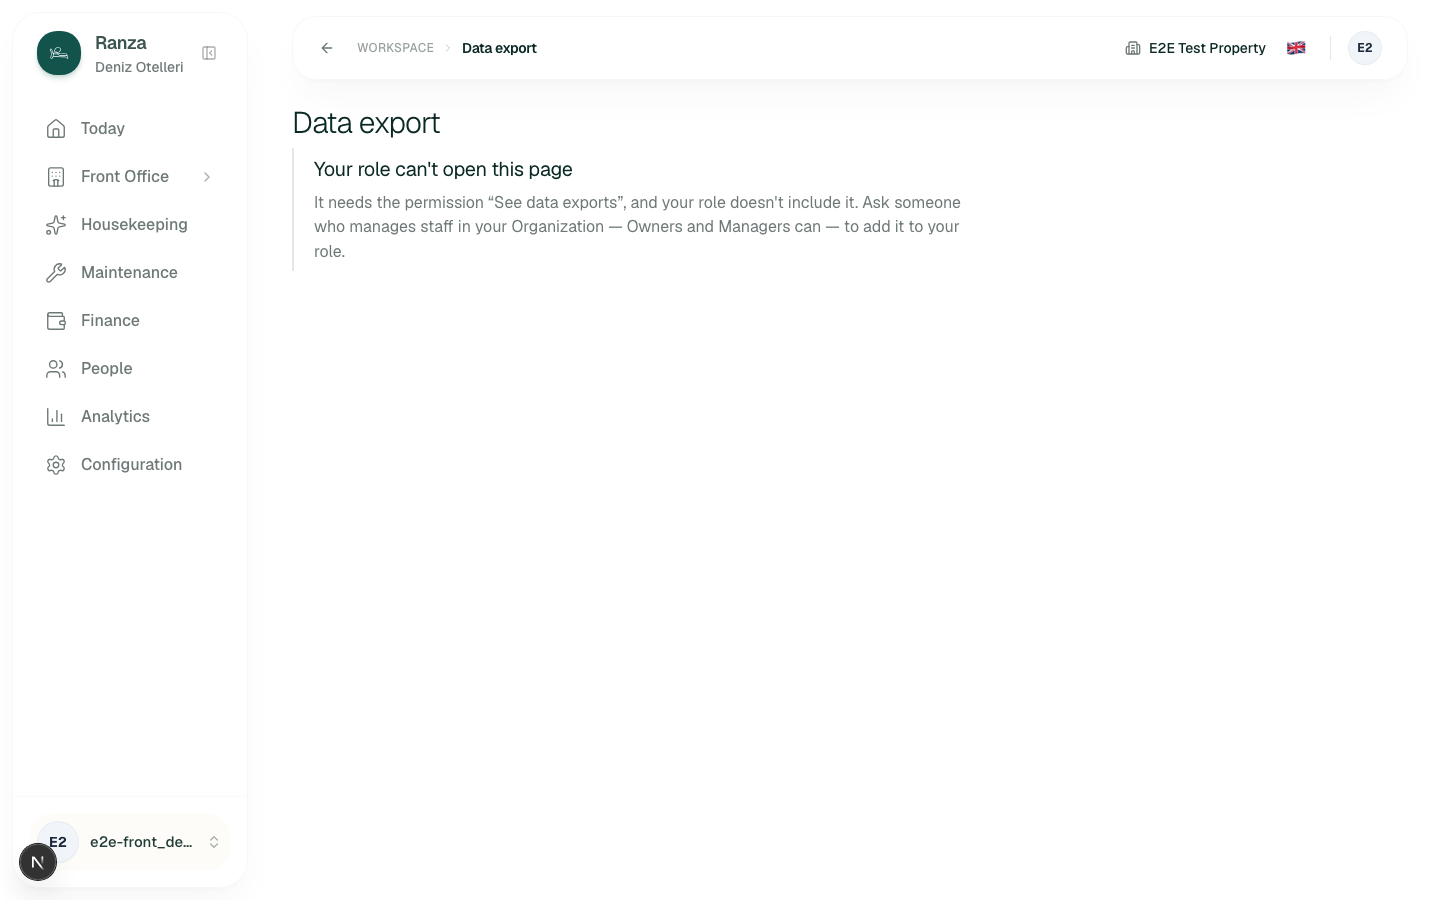
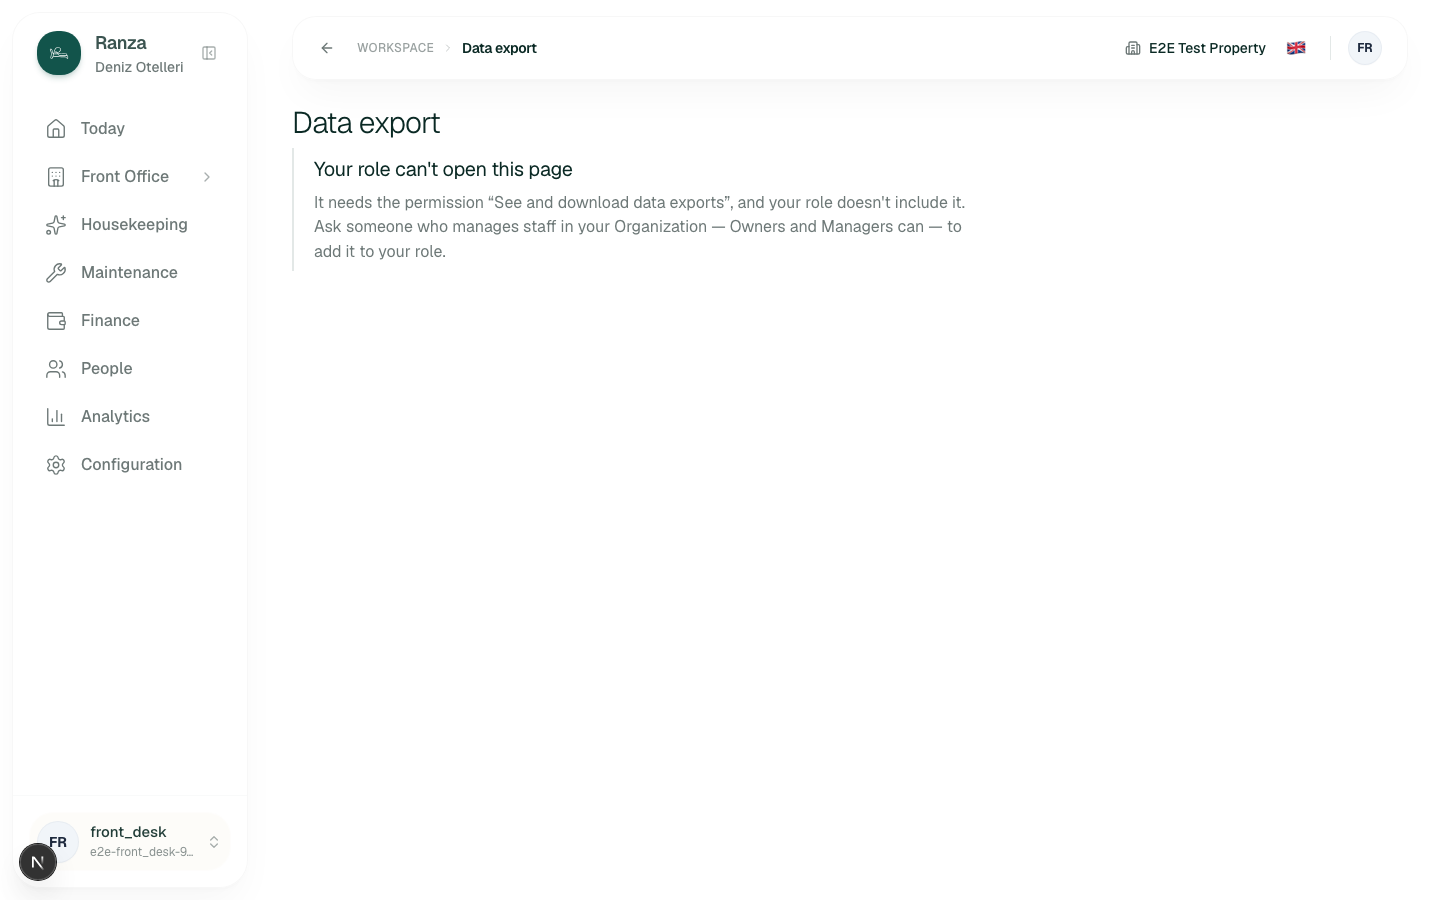
test(access): the refusal names the data-export permission by the label People now gives it, in English and Arabic

Changed region(s): [[0.2188, 0.2178, 0.6562, 0.28], [0.0625, 0.9022, 0.125, 0.9644]]

diff --git a/tests/browser/screen-access.spec.ts b/tests/browser/screen-access.spec.ts
@@ -152,7 +152,9 @@ test("a typed address a role may not open says why, in English", async ({
   await expect(
     page.getByRole("heading", { name: "Your role can't open this page" }),
   ).toBeVisible();
-  await expect(page.locator("main")).toContainText("“See data exports”");
+  await expect(page.locator("main")).toContainText(
+    "“See and download data exports”",
+  );
   await expect(page.locator("main")).toContainText("Owners and Managers can");
   await expect(
     page.locator("main"),
@@ -245,7 +247,9 @@ test("a typed address says the same thing in Arabic, mirrored", async ({
   await expect(
     page.getByRole("heading", { name: "دورك لا يتيح فتح هذه الصفحة" }),
   ).toBeVisible();
-  await expect(page.locator("main")).toContainText("«عرض عمليات التصدير»");
+  await expect(page.locator("main")).toContainText(
+    "«عرض عمليات التصدير وتنزيلها»",
+  );
   expect(await page.locator("html").getAttribute("dir")).toBe("rtl");
   await page.screenshot({ path: path.join(EVIDENCE, "no-permission-ar.png") });
 
